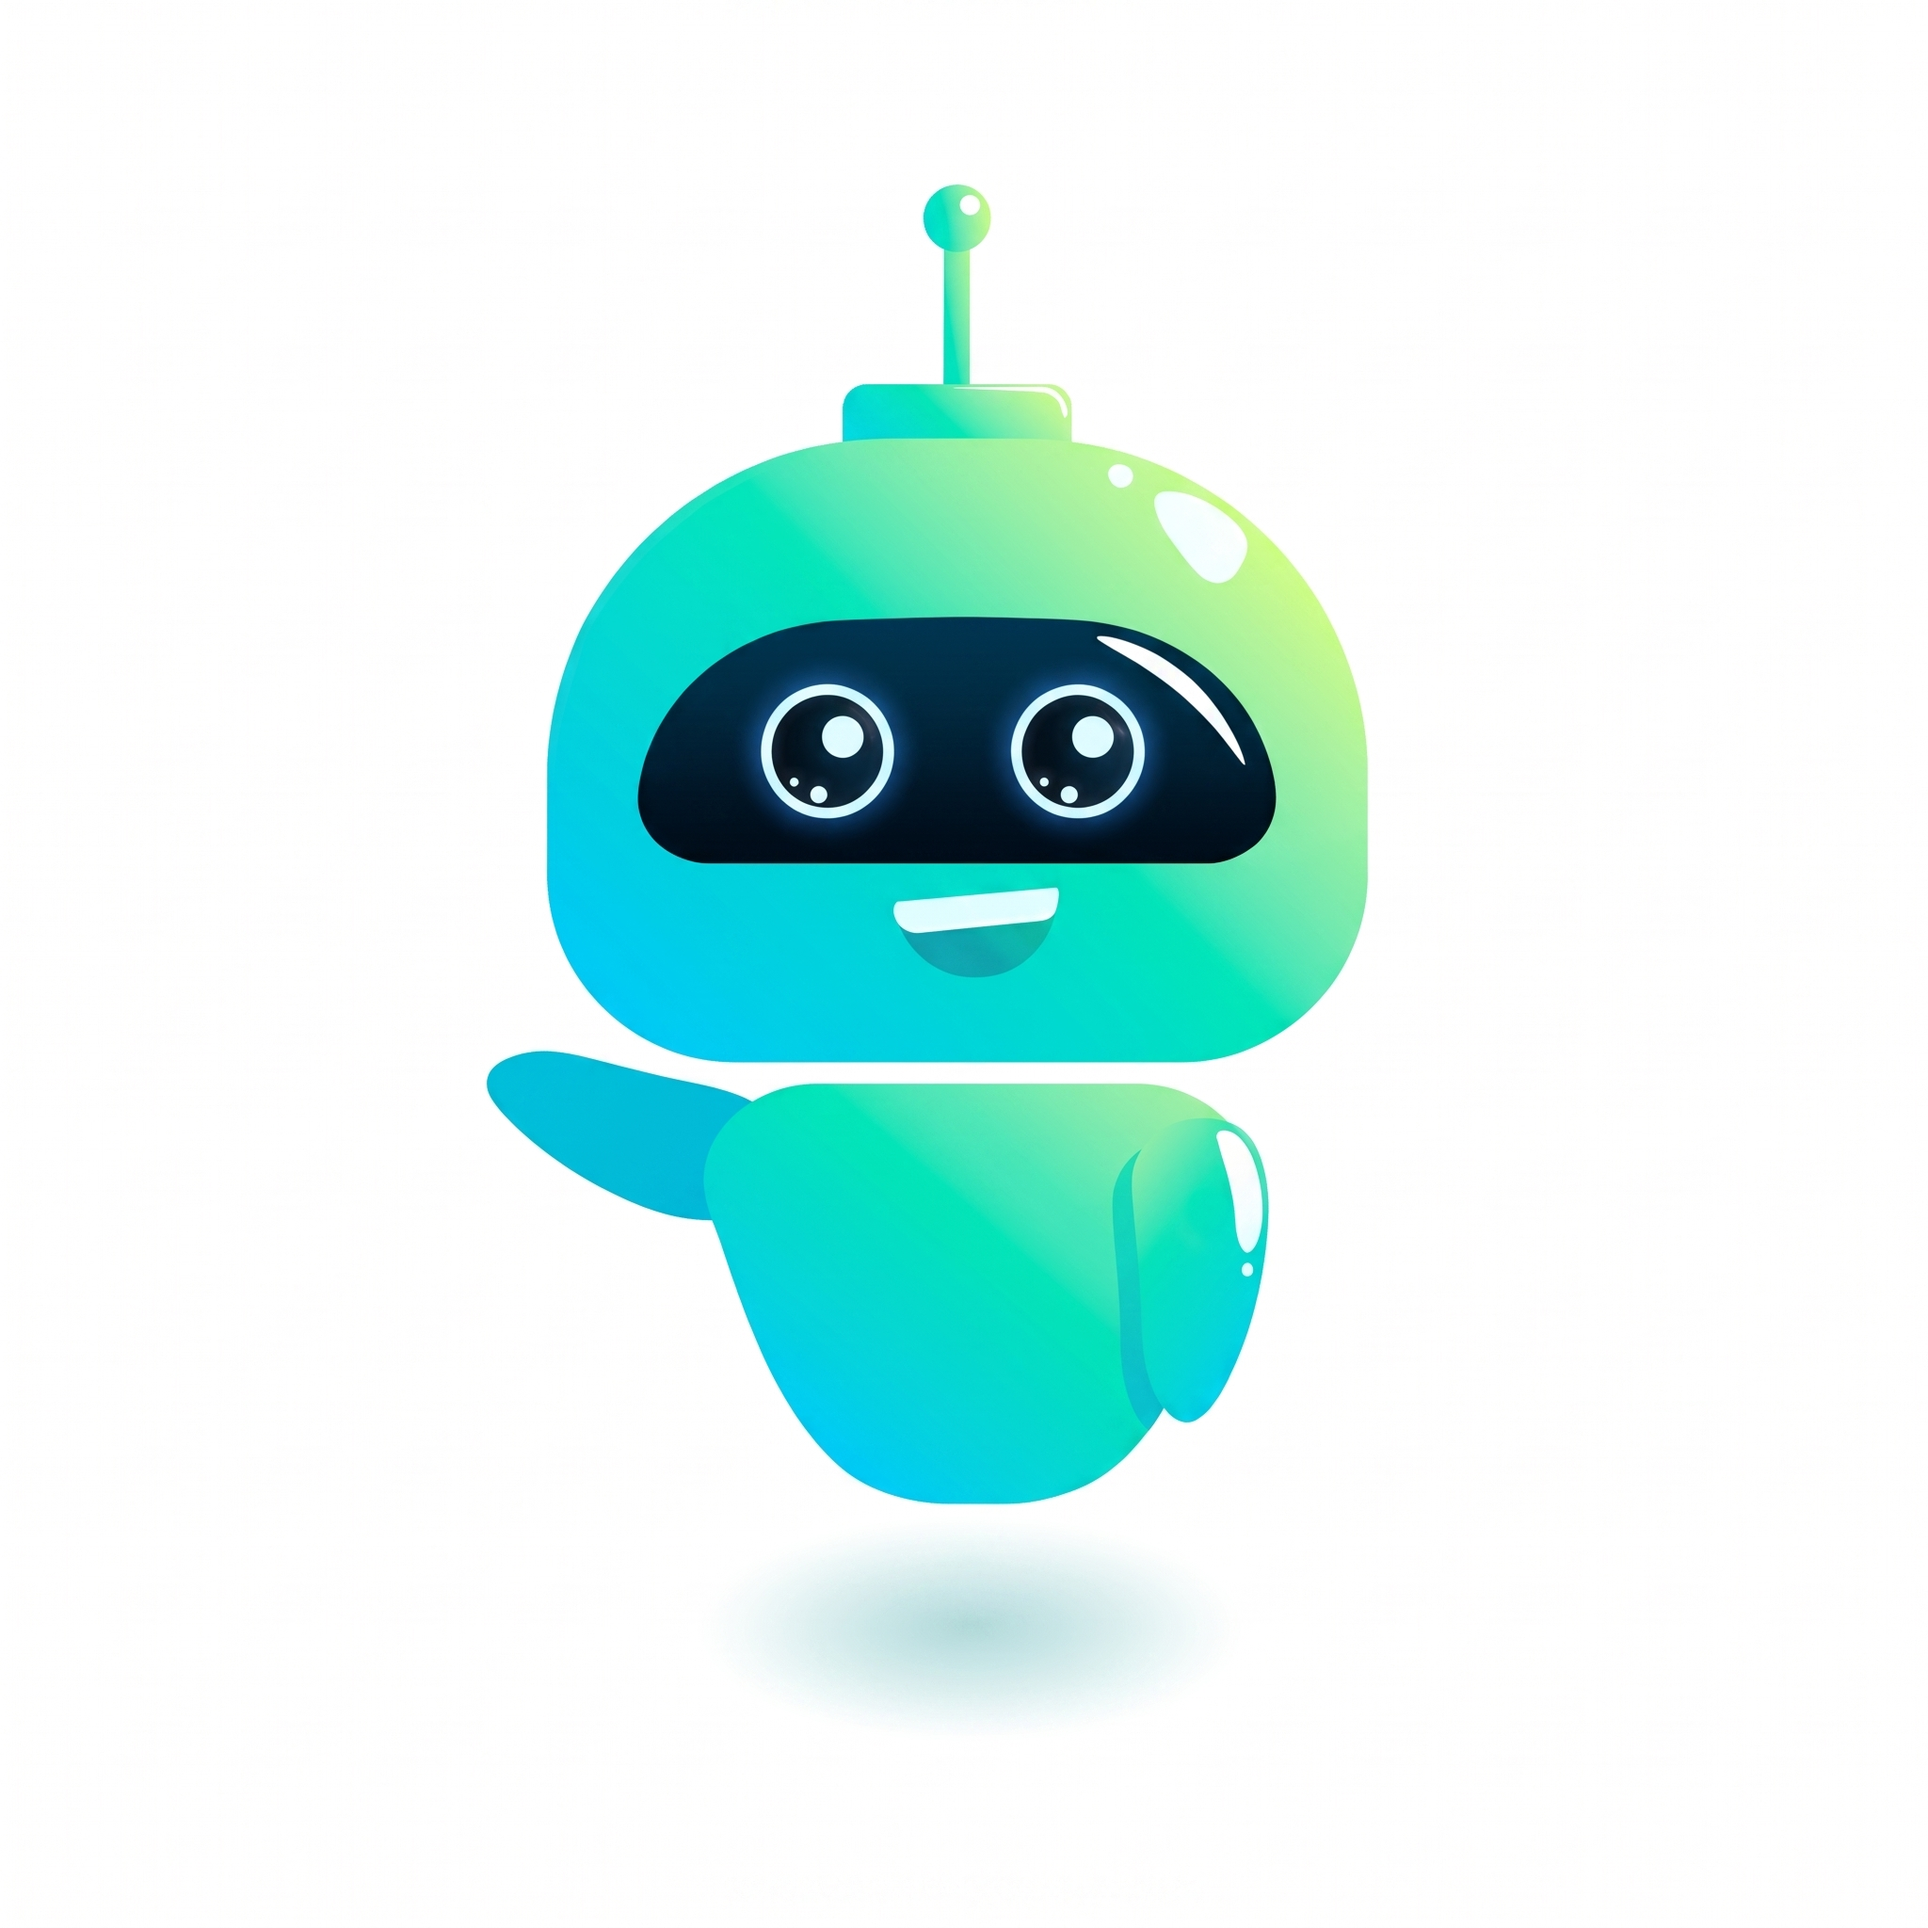
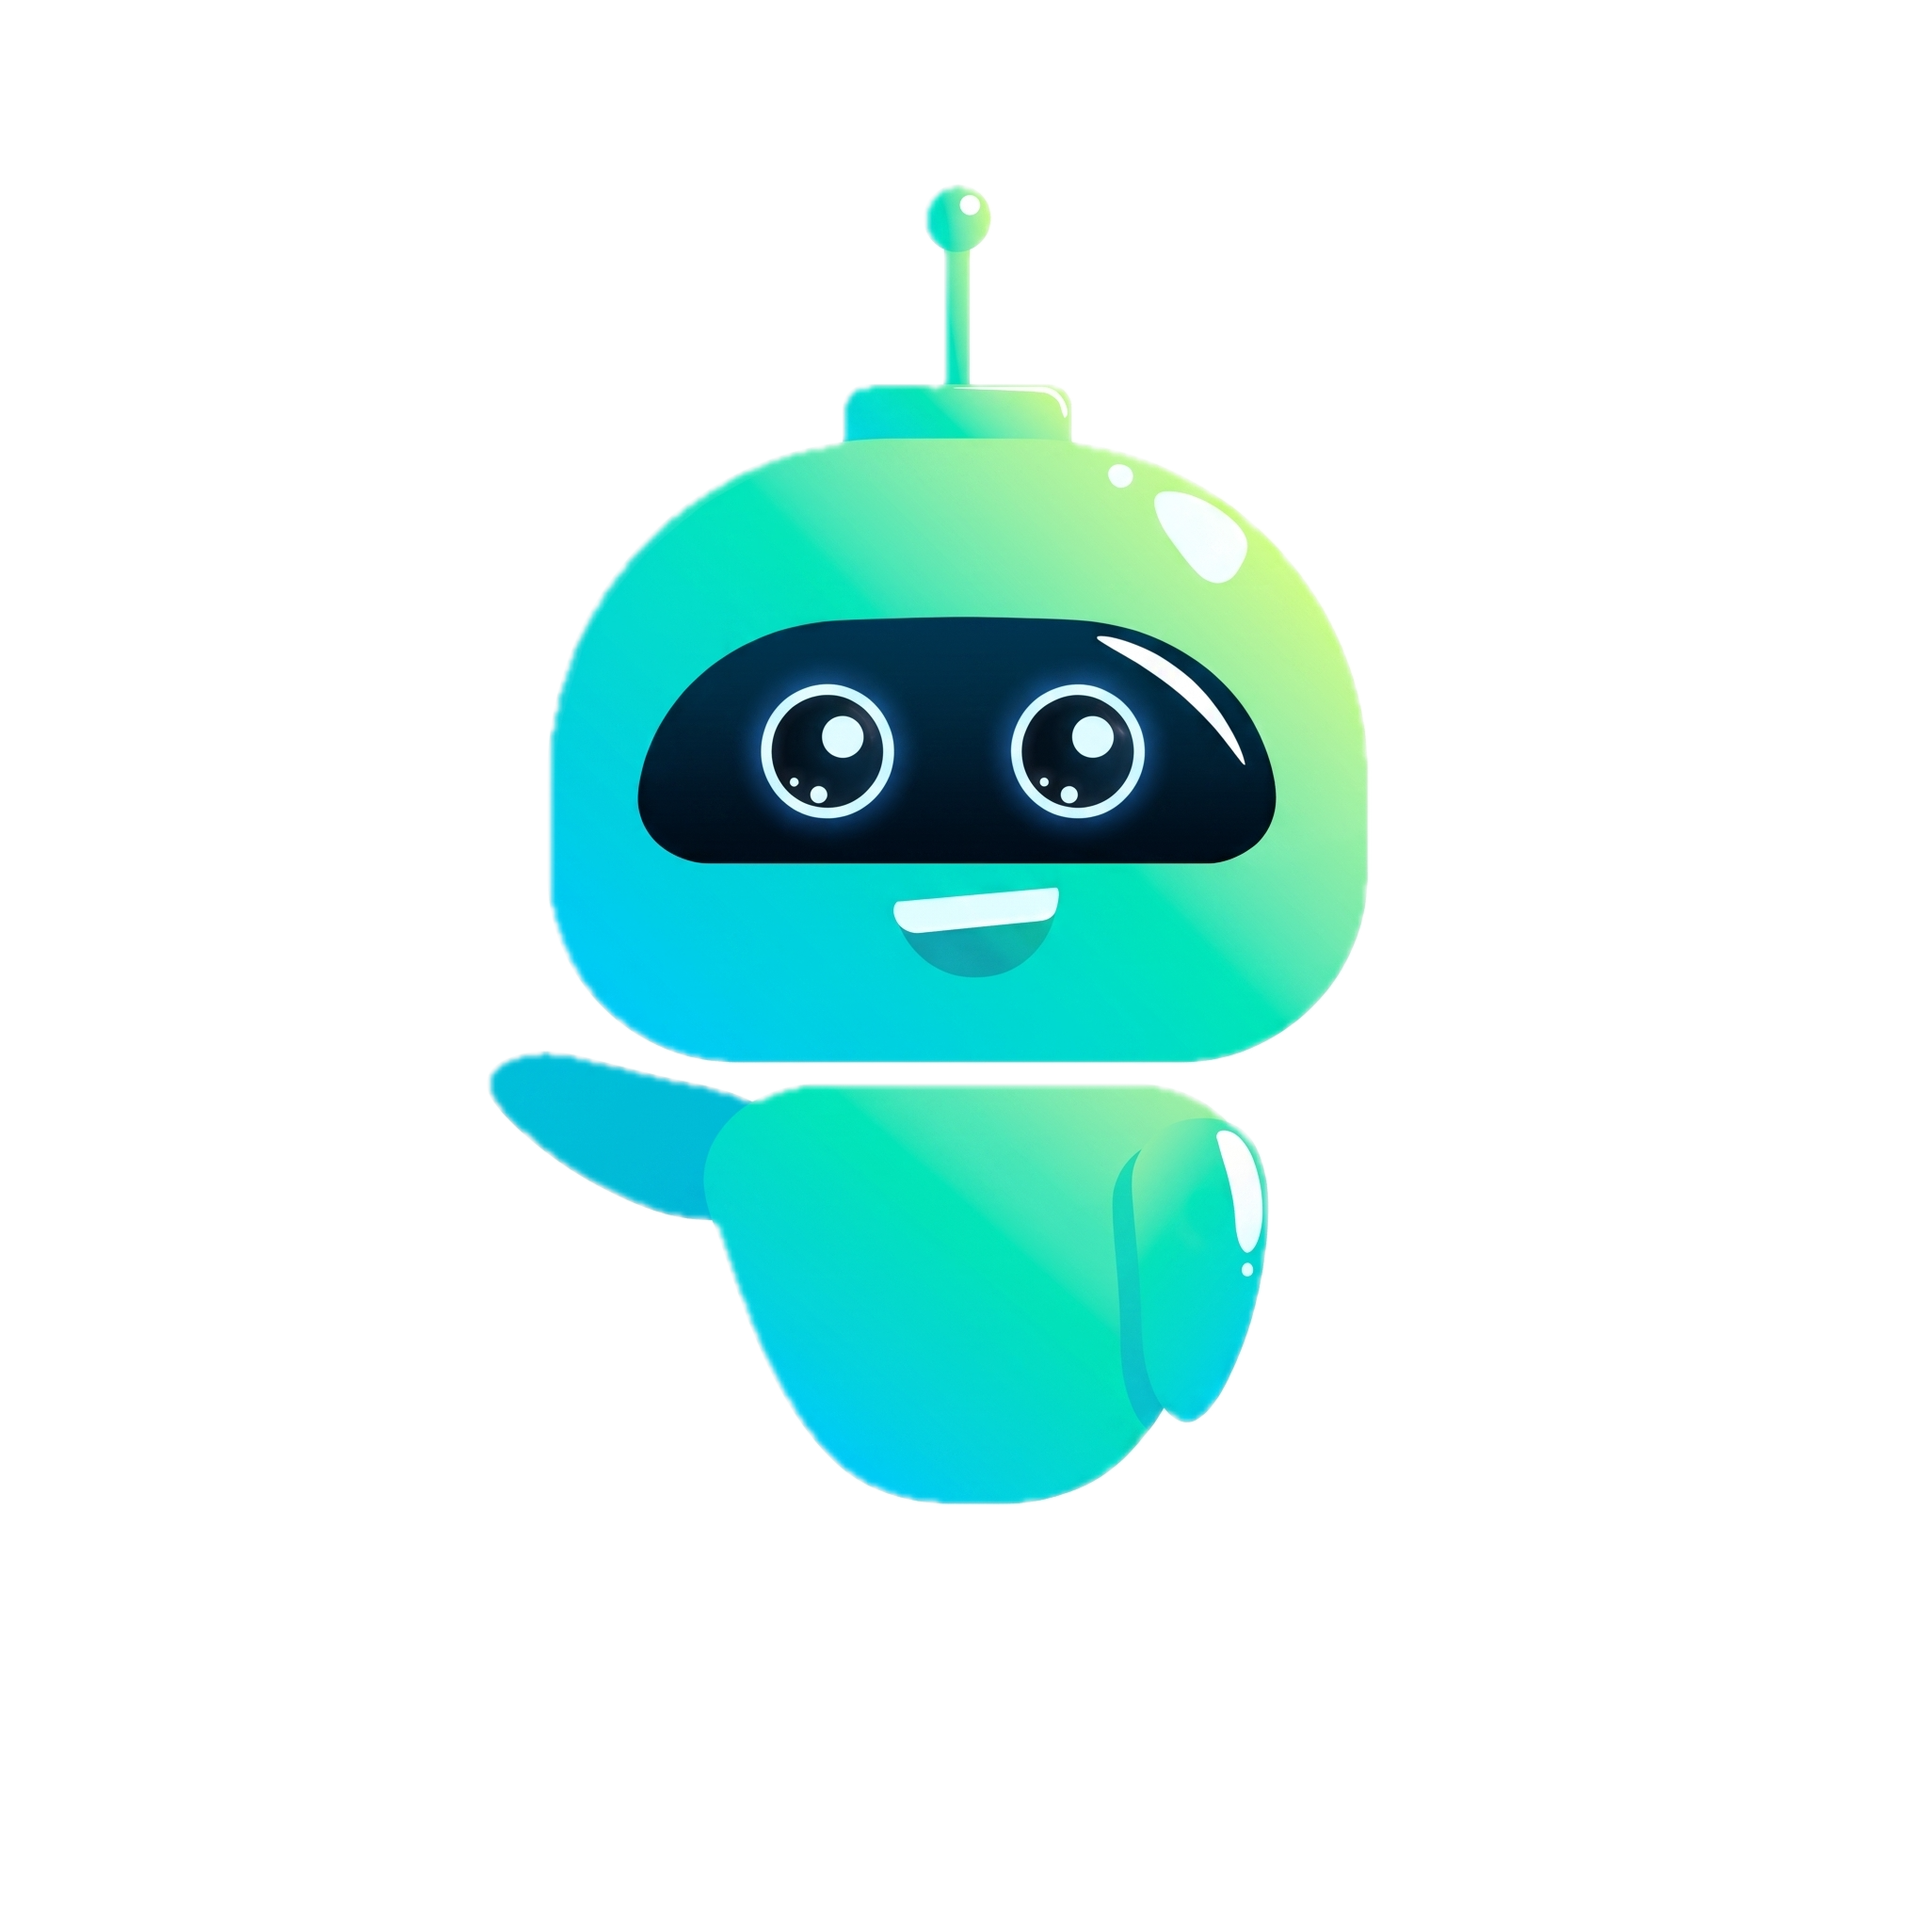
feat: transparent animated floating robot mascot

diff --git a/static/widget.js b/static/widget.js
@@ -111,11 +111,53 @@
   root.id = "swiss-rag-widget-root";
   root.style.cssText = "all: initial; font-family: -apple-system, BlinkMacSystemFont, 'Segoe UI', Roboto, Helvetica, Arial, sans-serif;";
 
-  // Floating Toggle Button (Mascot Avatar when closed, clean X button when open)
+  // Scoped styles for living mascot animation and interactive hover
+  const styleEl = document.createElement("style");
+  styleEl.textContent = `
+    @keyframes botFloat {
+      0%, 100% {
+        transform: translateY(0) rotate(-3deg);
+        filter: drop-shadow(0 6px 14px rgba(0, 229, 255, 0.45));
+      }
+      50% {
+        transform: translateY(-8px) rotate(3deg);
+        filter: drop-shadow(0 10px 20px rgba(0, 229, 255, 0.72));
+      }
+    }
+    #swiss-rag-launcher-btn.swiss-rag-launcher-mascot {
+      background: transparent !important;
+      border: none !important;
+      box-shadow: none !important;
+      padding: 0 !important;
+      outline: none !important;
+      transition: transform 0.25s ease;
+    }
+    #swiss-rag-launcher-btn.swiss-rag-launcher-mascot:hover {
+      transform: scale(1.12) rotate(5deg);
+    }
+    #swiss-rag-launcher-btn .swiss-rag-bot-mascot {
+      width: 64px;
+      height: 64px;
+      object-fit: contain;
+      display: block;
+      pointer-events: none;
+      animation: botFloat 2.8s ease-in-out infinite;
+      filter: drop-shadow(0 6px 14px rgba(0, 229, 255, 0.45));
+      transition: filter 0.25s ease;
+    }
+    #swiss-rag-launcher-btn:hover .swiss-rag-bot-mascot {
+      animation-play-state: paused;
+      filter: drop-shadow(0 8px 22px rgba(0, 229, 255, 0.85));
+    }
+  `;
+  root.appendChild(styleEl);
+
+  // Floating Toggle Button (Animated Mascot when closed, clean X button when open)
   const btn = document.createElement("button");
+  btn.id = "swiss-rag-launcher-btn";
   btn.setAttribute("aria-label", "Toggle AI Chat");
 
-  const botAvatarImg = `<img src="${escapeHtml(iconUrl)}" alt="${escapeHtml(title)}" style="width: 100%; height: 100%; object-fit: contain; display: block; pointer-events: none;" />`;
+  const botAvatarImg = `<img class="swiss-rag-bot-mascot" src="${escapeHtml(iconUrl)}" alt="${escapeHtml(title)}" />`;
   const closeIcon = `
     <svg width="22" height="22" fill="none" stroke="currentColor" stroke-width="2" viewBox="0 0 24 24">
       <path stroke-linecap="round" stroke-linejoin="round" d="M6 18L18 6M6 6l12 12"></path>
@@ -126,6 +168,7 @@
 
   function renderLauncherButton() {
     if (isOpen) {
+      btn.className = "";
       btn.style.cssText = `
         position: fixed;
         bottom: 24px;
@@ -139,49 +182,44 @@
         padding: 0;
         cursor: pointer;
         box-shadow: 0 4px 14px rgba(15, 23, 42, 0.35);
-        filter: none;
         display: flex;
         align-items: center;
         justify-content: center;
         z-index: 999999;
-        transition: transform 0.2s ease, box-shadow 0.2s ease, filter 0.2s ease;
+        transition: transform 0.2s ease, box-shadow 0.2s ease;
       `;
       btn.innerHTML = closeIcon;
     } else {
+      btn.className = "swiss-rag-launcher-mascot";
       btn.style.cssText = `
         position: fixed;
         bottom: 24px;
         right: 24px;
-        width: 60px;
-        height: 60px;
+        width: 64px;
+        height: 64px;
         border-radius: 0;
         background: transparent;
-        color: #ffffff;
         border: none;
         padding: 0;
         cursor: pointer;
         box-shadow: none;
-        filter: drop-shadow(0 4px 14px rgba(0, 229, 255, 0.4));
         display: flex;
         align-items: center;
         justify-content: center;
         z-index: 999999;
-        transition: transform 0.2s ease, filter 0.2s ease;
       `;
       btn.innerHTML = botAvatarImg;
     }
   }
 
   btn.onmouseover = () => {
-    btn.style.transform = "scale(1.07)";
-    if (!isOpen) {
-      btn.style.filter = "drop-shadow(0 6px 18px rgba(0, 229, 255, 0.6))";
+    if (isOpen) {
+      btn.style.transform = "scale(1.06)";
     }
   };
   btn.onmouseout = () => {
-    btn.style.transform = "scale(1)";
-    if (!isOpen) {
-      btn.style.filter = "drop-shadow(0 4px 14px rgba(0, 229, 255, 0.4))";
+    if (isOpen) {
+      btn.style.transform = "scale(1)";
     }
   };
 
